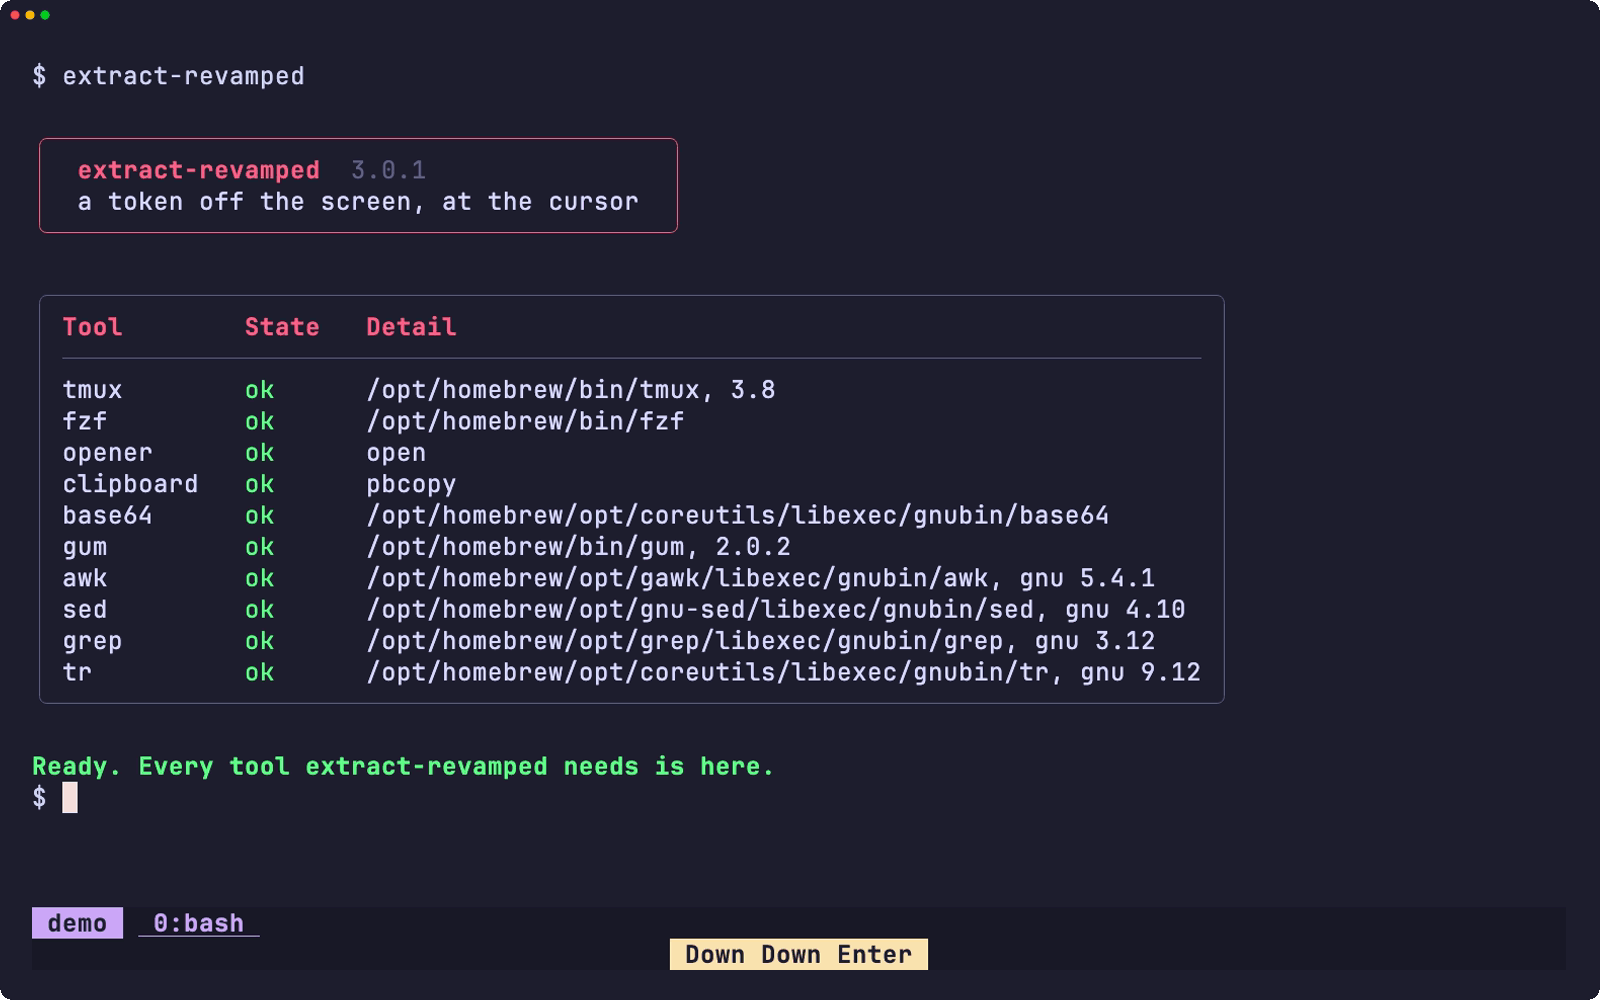
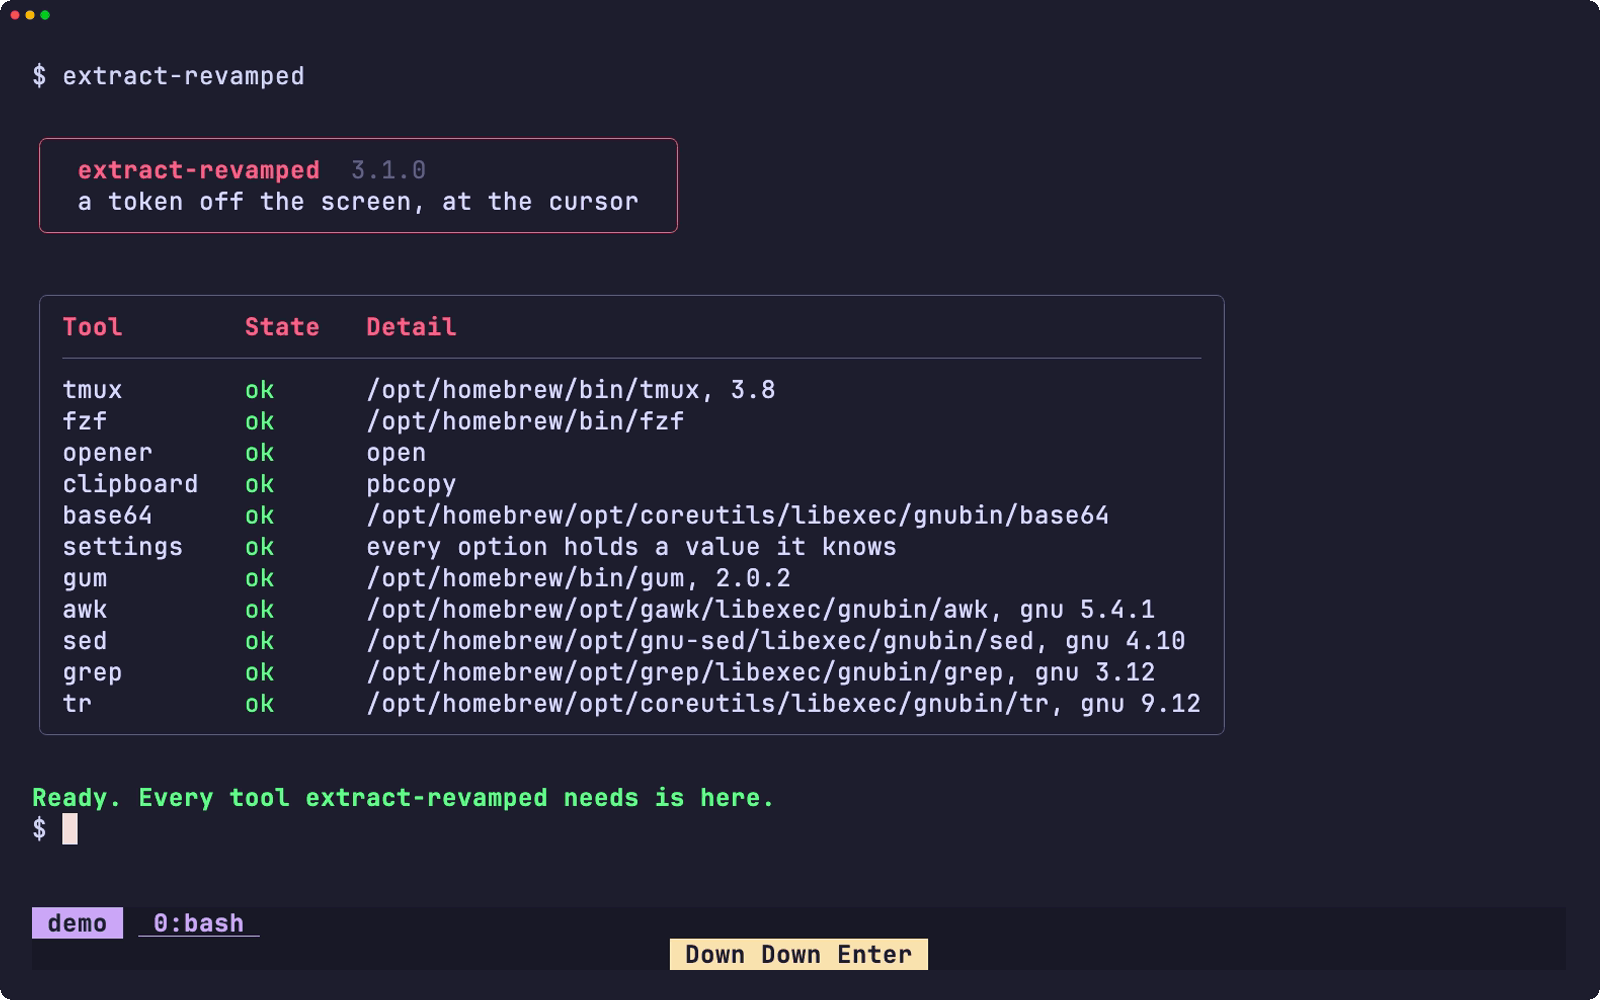
feat: name unknown setting values in doctor
doctor prints a settings row. It reads the value in force for each
switch, number and choice, whether a tmux option, the environment
or the command line gave it, and names any value the plugin does
not know, such as yes where it reads on. Until now such a value was
ignored in silence, and a status line has no place to say so.

The values each setting accepts are listed beside the settings in
lib/state.sh, and one helper in lib/doctor.sh checks them.

The screens are recorded again: doctor shows the settings row, and
its table folds its last column to fit the terminal.

The stills tape empties the clipboard before the copy flow and waits
5 seconds, where it waited 2, after each chord that opens a popup.
Under load the picker opened after the tape had typed, so the copy
still printed whatever the recording machine held in its clipboard.

diff --git a/README.ja.md b/README.ja.md
@@ -114,7 +114,7 @@ run-shell ~/.tmux/plugins/tmux-extract-revamped/extract-revamped.tmux
 | `@extract_revamped_popup_width` | `80%` | ポップアップの幅 |
 | `@extract_revamped_popup_height` | `60%` | ポップアップの高さ |
 
-tmux オプションで指定した設定はキーを実行したときに読むので、変更は次の選択から有効になります。`extract-revamped apply` にコマンドラインまたは環境変数で渡した設定は、割り当てたキーに引き継がれます。キーそのものは `extract-revamped apply` か設定の再読み込みで有効になります。どのオプションも、ダッシュ区切りのコマンドオプション（例 `--min-length 4`）と環境変数（例 `EXTRACT_REVAMPED_MIN_LENGTH`）で指定できます。優先順位はコマンドライン、環境変数、tmux オプションの順です。空の tmux オプションは既定値を意味します。
+tmux オプションで指定した設定はキーを実行したときに読むので、変更は次の選択から有効になります。`extract-revamped apply` にコマンドラインまたは環境変数で渡した設定は、割り当てたキーに引き継がれます。キーそのものは `extract-revamped apply` か設定の再読み込みで有効になります。どのオプションも、ダッシュ区切りのコマンドオプション（例 `--min-length 4`）と環境変数（例 `EXTRACT_REVAMPED_MIN_LENGTH`）で指定できます。優先順位はコマンドライン、環境変数、tmux オプションの順です。空の tmux オプションは既定値を意味します。`doctor` は、プラグインが認識できない値を持つ設定の名前を表示します。
 
 <a id="モード"></a>
 

diff --git a/README.md b/README.md
@@ -114,7 +114,7 @@ run-shell ~/.tmux/plugins/tmux-extract-revamped/extract-revamped.tmux
 | `@extract_revamped_popup_width` | `80%` | Popup width |
 | `@extract_revamped_popup_height` | `60%` | Popup height |
 
-A setting given as a tmux option is read when a key runs, so a change takes effect on the next pick, and one given to `extract-revamped apply` on the command line or in the environment rides on the keys it binds; the keys themselves take effect after `extract-revamped apply` or a config reload. Every option is also a command option with dashes, such as `--min-length 4`, and an environment variable, such as `EXTRACT_REVAMPED_MIN_LENGTH`; the command line wins over the environment, and the environment over the tmux option. An empty tmux option means its default.
+A setting given as a tmux option is read when a key runs, so a change takes effect on the next pick, and one given to `extract-revamped apply` on the command line or in the environment rides on the keys it binds; the keys themselves take effect after `extract-revamped apply` or a config reload. Every option is also a command option with dashes, such as `--min-length 4`, and an environment variable, such as `EXTRACT_REVAMPED_MIN_LENGTH`; the command line wins over the environment, and the environment over the tmux option. An empty tmux option means its default. `doctor` names any setting that holds a value the plugin does not know.
 
 <a id="modes"></a>
 

diff --git a/README.zh-Hans.md b/README.zh-Hans.md
@@ -114,7 +114,7 @@ run-shell ~/.tmux/plugins/tmux-extract-revamped/extract-revamped.tmux
 | `@extract_revamped_popup_width` | `80%` | 弹出窗口宽度 |
 | `@extract_revamped_popup_height` | `60%` | 弹出窗口高度 |
 
-以 tmux 选项给出的设置在按键运行时读取，所以修改从下一次选取起生效；通过命令行或环境变量传给 `extract-revamped apply` 的设置会带到它绑定的按键上；按键本身在 `extract-revamped apply` 或重新加载配置后生效。每个选项也可以写成用短横线连接的命令选项，例如 `--min-length 4`，以及环境变量，例如 `EXTRACT_REVAMPED_MIN_LENGTH`；命令行优先于环境变量，环境变量优先于 tmux 选项。空的 tmux 选项表示使用默认值。
+以 tmux 选项给出的设置在按键运行时读取，所以修改从下一次选取起生效；通过命令行或环境变量传给 `extract-revamped apply` 的设置会带到它绑定的按键上；按键本身在 `extract-revamped apply` 或重新加载配置后生效。每个选项也可以写成用短横线连接的命令选项，例如 `--min-length 4`，以及环境变量，例如 `EXTRACT_REVAMPED_MIN_LENGTH`；命令行优先于环境变量，环境变量优先于 tmux 选项。空的 tmux 选项表示使用默认值。`doctor` 会指出值无法识别的设置。
 
 <a id="模式"></a>
 

diff --git a/README.zh-HK.md b/README.zh-HK.md
@@ -114,7 +114,7 @@ run-shell ~/.tmux/plugins/tmux-extract-revamped/extract-revamped.tmux
 | `@extract_revamped_popup_width` | `80%` | 彈出視窗寬度 |
 | `@extract_revamped_popup_height` | `60%` | 彈出視窗高度 |
 
-以 tmux 選項給出的設定在按鍵執行時讀取，所以修改由下一次選取起生效；透過命令列或環境變數傳給 `extract-revamped apply` 的設定會帶到它綁定的按鍵上；按鍵本身在 `extract-revamped apply` 或重新載入設定後生效。每個選項亦可寫成以短橫線連接的命令選項，例如 `--min-length 4`，以及環境變數，例如 `EXTRACT_REVAMPED_MIN_LENGTH`；命令列優先於環境變數，環境變數優先於 tmux 選項。空的 tmux 選項表示使用預設值。
+以 tmux 選項給出的設定在按鍵執行時讀取，所以修改由下一次選取起生效；透過命令列或環境變數傳給 `extract-revamped apply` 的設定會帶到它綁定的按鍵上；按鍵本身在 `extract-revamped apply` 或重新載入設定後生效。每個選項亦可寫成以短橫線連接的命令選項，例如 `--min-length 4`，以及環境變數，例如 `EXTRACT_REVAMPED_MIN_LENGTH`；命令列優先於環境變數，環境變數優先於 tmux 選項。空的 tmux 選項表示使用預設值。`doctor` 會指出數值無法識別的設定。
 
 <a id="模式"></a>
 
